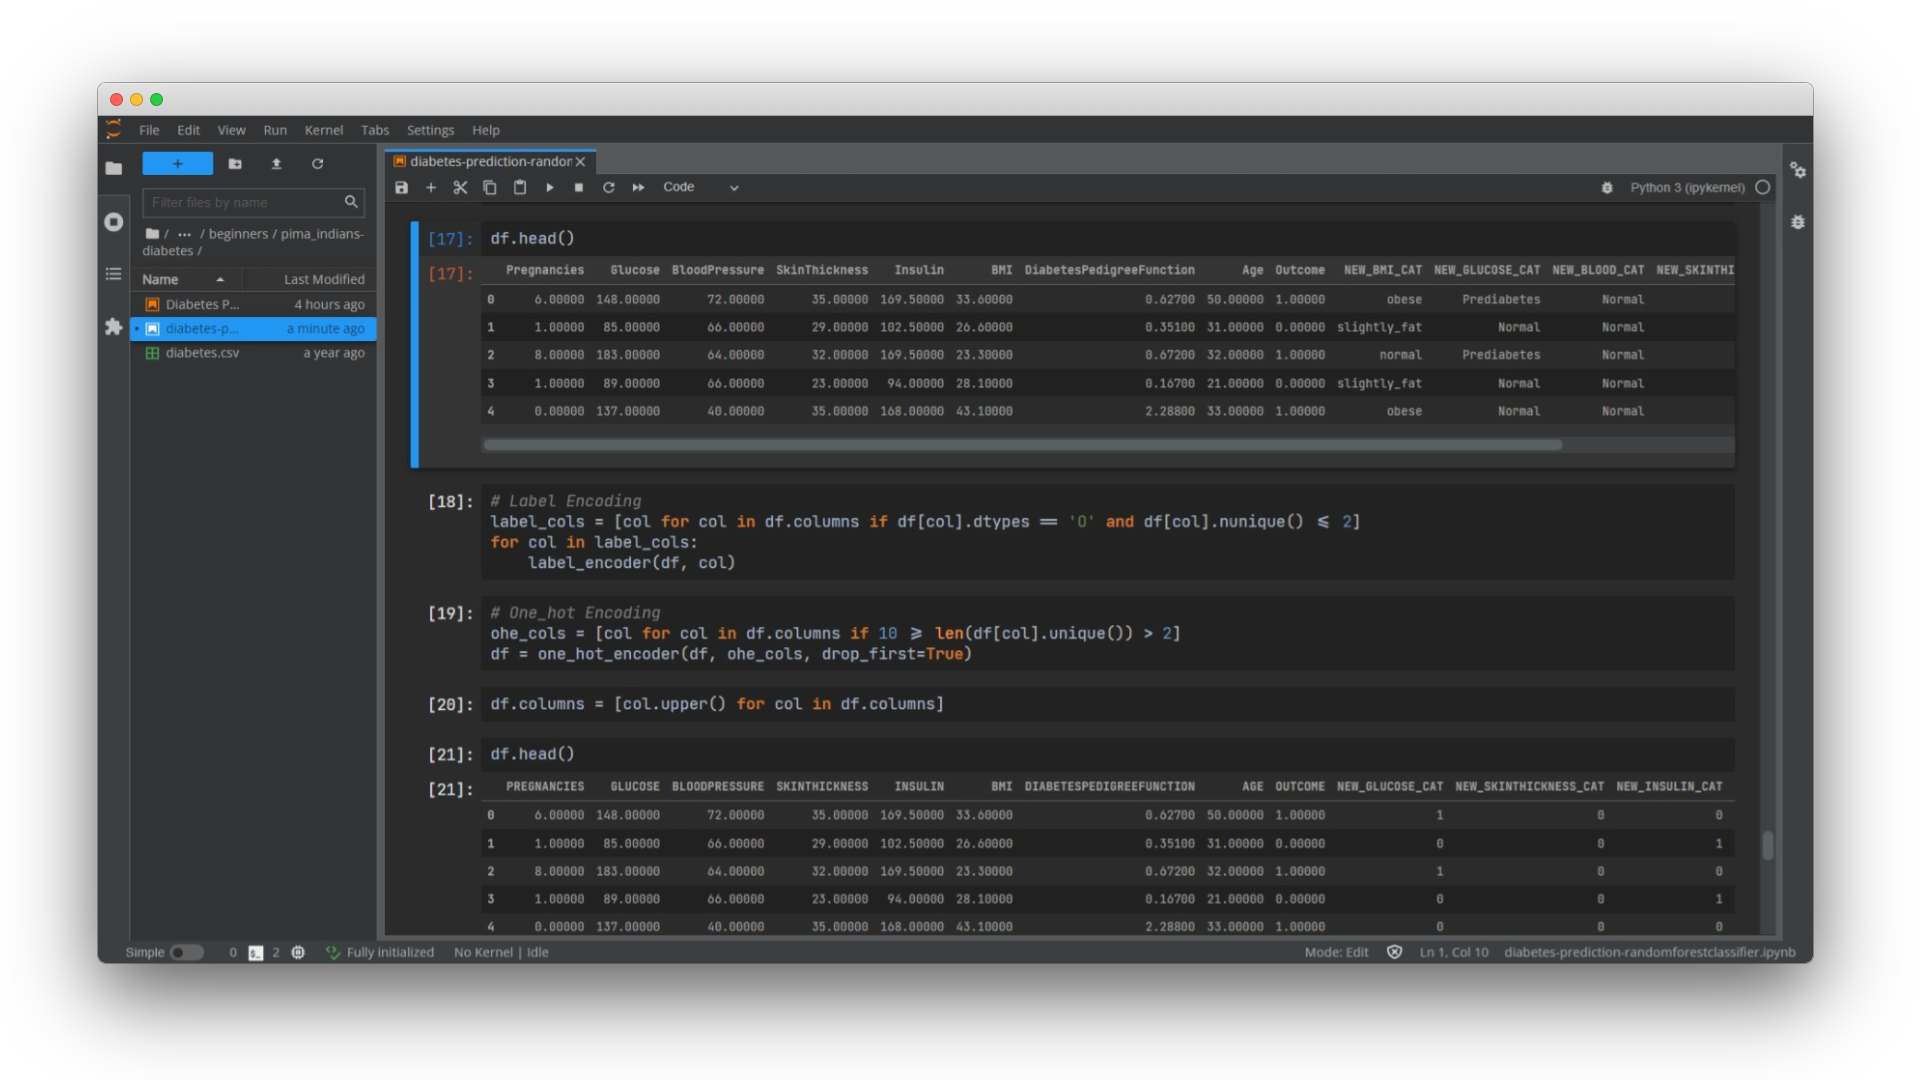
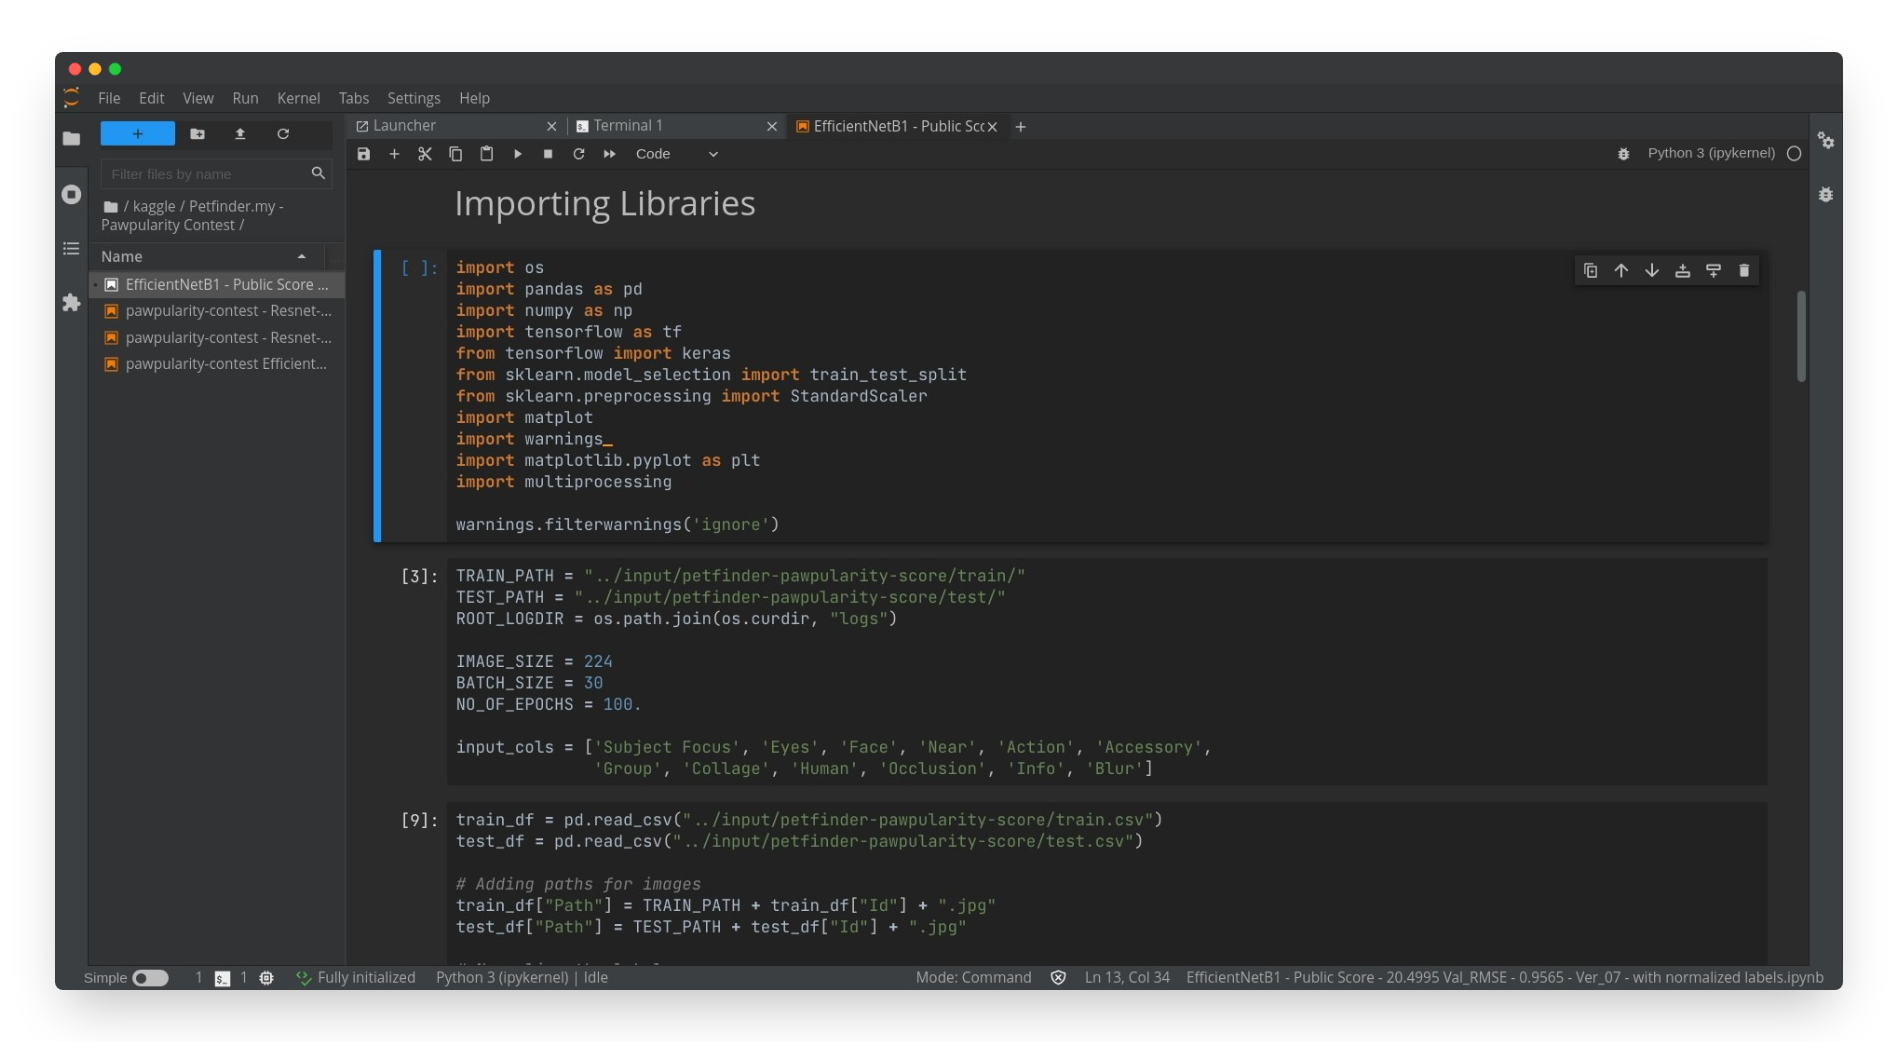
Sleeker look, less pronounced colors, less borders and new tabs

Changed region(s): [[0.0311, 0.0307, 0.9947, 0.952]]

diff --git a/style/variables.css b/style/variables.css
@@ -90,8 +90,8 @@ all of MD as it is not optimized for dense, information rich UIs.
    */
 
   --jp-border-width: 1px;
-  --jp-border-color0: var(--md-grey-700);
-  --jp-border-color1: var(--md-grey-700);
+  --jp-border-color0: var(--md-grey-900);
+  --jp-border-color1: var(--md-grey-800);
   --jp-border-color2: var(--md-grey-800);
   --jp-border-color3: var(--md-grey-900);
   --jp-border-radius: 2px;
@@ -217,7 +217,7 @@ all of MD as it is not optimized for dense, information rich UIs.
   --jp-layout-color0: #2b2b2b;
   --jp-layout-color1: #313335; /*var(--md-grey-900);*/
   --jp-layout-color2: #3c3f41; /*var(--md-grey-800);*/
-  --jp-layout-color3: #555758; /*var(--md-grey-700);*/
+  --jp-layout-color3: #3c3f41; /*var(--md-grey-700);*/
   --jp-layout-color4: #626465; /*var(--md-grey-600);*/
   --jp-layout-color5: #a9b7c6;
 
@@ -277,7 +277,7 @@ all of MD as it is not optimized for dense, information rich UIs.
   --jp-cell-collapser-not-active-hover-opacity: 0.6;
 
   --jp-cell-editor-background: var(--jp-layout-color1);
-  --jp-cell-editor-border-color: var(--md-grey-700);
+  --jp-cell-editor-border-color: transparent;
   --jp-cell-editor-box-shadow: inset 0 0 2px var(--md-blue-300);
   --jp-cell-editor-active-background: var(--jp-layout-color0);
   --jp-cell-editor-active-border-color: var(--jp-brand-color1);
@@ -335,6 +335,7 @@ all of MD as it is not optimized for dense, information rich UIs.
   --jp-toolbar-box-shadow: 0px 0px 2px 0px rgba(0, 0, 0, 0.8);
   --jp-toolbar-header-margin: 4px 4px 0px 4px;
   --jp-toolbar-active-background: var(--jp-layout-color0);
+  --jp-listitem-mod-selected: #525252;
 
   /* Statusbar specific styles */
 
@@ -458,7 +459,7 @@ all of MD as it is not optimized for dense, information rich UIs.
 
   /* scrollbar related styles. Supports every browser except Edge. */
 
-  --jp-scrollbar-background-color: #3f4244;
+  --jp-scrollbar-background-color: transparent;
   --jp-scrollbar-thumb-color: 88, 96, 97; /* need to specify thumb color as an RGB triplet */
 
   --jp-scrollbar-endpad: 3px; /* the minimum gap between the thumb and the ends of a scrollbar */

diff --git a/style/tabs.css b/style/tabs.css
@@ -1,0 +1,70 @@
+/*-----------------------------------------------------------------------------
+| Copyright (c) Max Klein.
+| Copyright (c) Anurag Dhadse.
+| Distributed under the terms of the Modified BSD License.
+|----------------------------------------------------------------------------*/
+
+.lm-DockPanel-tabBar .lm-TabBar-tab.jp-mod-current:before {
+    background: transparent;
+}
+
+.lm-DockPanel-tabBar .lm-TabBar-tab,
+.lm-TabPanel-tabBar .lm-TabBar-tab {
+    animation: append-animate 0.3s cubic-bezier(1, 0, 0, 1);
+    border: none;
+}
+
+@keyframes append-animate {
+    from {
+        transform: translateX(-5%);
+        opacity: 0;
+        box-shadow: 0 0 5px 0px rgb(0 0 0 / 40%);
+        clip-path: inset(0px -5px 0px -5px);
+    }
+
+    to {
+        transform: translateX(0%);
+        opacity: 1;
+        box-shadow: 0 0 5px 0px rgb(0 0 0 / 40%);
+        clip-path: inset(0px -5px 0px -5px);
+    }
+}
+
+.lm-DockPanel-tabBar,
+.lm-TabPanel-tabBar {
+    border-bottom: none;
+}
+
+/* Tab and tool bar under tab has same color `--jp-layout-color0` */
+.lm-DockPanel-tabBar .lm-TabBar-tab.lm-mod-current {
+    background: var(--jp-layout-color0);
+    box-shadow: 0 0 5px 0px rgb(0 0 0 / 40%);
+    clip-path: inset(0px -5px 0px -5px);
+    animation: append-animate 0.3s cubic-bezier(1, 0, 0, 1);
+}
+
+.jp-Toolbar {
+    border-bottom: transparent;
+    background: var(--jp-layout-color0);
+}
+
+.lm-TabBar .lm-TabBar-addButton {
+    background-color: var(--jp-layout-color1);
+}
+
+/* But toolbar on Launcher don't have box-shadow */
+.lm-Widget.p-Widget.jp-Toolbar.jp-Toolbar-micro {
+    box-shadow: none;
+}
+
+/* tab separator */
+.lm-DockPanel-tabBar .lm-TabBar-tab:not(.jp-mod-current):not(:hover)::after,
+.lm-TabPanel-tabBar .lm-TabBar-tab:not(.jp-mod-current):not(:hover)::after {
+    content: '';
+    height: 70%;
+    width: 1px;
+    position: absolute;
+    right: 0;
+    top: auto;
+    background-color: var(--md-grey-600);
+}

diff --git a/style/base.css b/style/base.css
@@ -1,3 +1,15 @@
+body {
+  background: var(--jp-layout-color1);
+}
+
+#jp-main-dock-panel {
+  padding: 0;
+}
+
+#jp-left-stack {
+  border-bottom: var(--jp-border-width) solid var(--jp-border-color0);
+}
+
 .jp-InputArea-editor {
   border: none;
   border-radius: 2px;
@@ -54,6 +66,11 @@
   padding: 0.3rem 0;
 }
 
+.jp-Completer-item.jp-mod-active {
+  background: var(--md-blue-500);
+  color: white;
+}
+
 .jp-mod-active .jp-Completer-typeExtended {
   color: inherit;
 }
@@ -70,3 +87,47 @@
   margin-top: 0;
 }
 
+.jp-DirListing-headerItem {
+  background-color: var(--jp-layout-color1) !important;
+}
+
+.jp-DirListing-item {
+  cursor: pointer;
+}
+
+.jp-PluginList {
+  background-color: var(--jp-layout-color1);
+  padding-right: 0;
+}
+
+.jp-DirListing-item.jp-mod-selected {
+  box-shadow: none;
+  background: var(--jp-listitem-mod-selected);
+  color: var(--jp-ui-font-color0);
+  border-radius: 0;
+}
+
+.jp-PluginList-entry.jp-mod-selected {
+  box-shadow: none!important;
+  background-color: var(--jp-listitem-mod-selected);
+  color: var(--jp-ui-font-color0);
+  border-radius: 0;
+}
+
+.jp-PluginList .jp-mod-selected .jp-SelectedIndicator {
+  visibility: hidden;
+}
+
+/* Inner editor panel should not have left, right and bottom border */
+.lm-DockPanel-widget,
+.lm-TabPanel-stackedPanel {
+    background: var(--jp-layout-color0);
+    border-right: none !important;
+    border-left: none !important;
+    border-bottom: var(--jp-border-width) solid var(--jp-border-color0);
+}
+
+/* switch color for simple layout */
+.jp-switch-track {
+  background-color: var(--md-grey-400);
+}

diff --git a/style/index.css b/style/index.css
@@ -7,6 +7,7 @@
 @import "./codemirror-darcula.css";
 @import "./variables.css";
 @import "./base.css";
+@import "./tabs.css";
 
 /* Set the default typography for monospace elements */
 tt,

diff --git a/setup.py b/setup.py
@@ -2,31 +2,34 @@
 theme-material-darcula setup
 """
 import json
-import os
+from pathlib import Path
 # import conda_build.bdist_conda
 
 
 from jupyter_packaging import (
-    create_cmdclass, install_npm, ensure_targets,
+    create_cmdclass, 
+    install_npm, 
+    ensure_targets,
     combine_commands,
+    skip_if_exists
 )
 import setuptools
 
-HERE = os.path.abspath(os.path.dirname(__file__))
+HERE = Path(__file__).parent.resolve()
 
 # The name of the project
 name = "theme-material-darcula"
 
 # Get our version
-with open(os.path.join(HERE, 'package.json')) as f:
+with (HERE / "package.json").open() as f:
     version = json.load(f)['version']
 
-lab_path = os.path.join(HERE, name, "labextension")
+lab_path = HERE / name / "labextension"
 
 # Representative files that should exist after a successful build
 jstargets = [
-    os.path.join(HERE, "lib", "index.js"),
-    os.path.join(lab_path, "package.json"),
+    str(HERE / "lib" / "index.js"),
+    str(lab_path / "package.json"),
 ]
 
 package_data_spec = {
@@ -38,8 +41,8 @@ package_data_spec = {
 labext_name = "@adhadse/theme-material-darcula"
 
 data_files_spec = [
-    ("share/jupyter/labextensions/%s" % labext_name, lab_path, "**"),
-    ("share/jupyter/labextensions/%s" % labext_name, HERE, "install.json"),
+    ("share/jupyter/labextensions/%s" % labext_name, str(lab_path), "**"),
+    ("share/jupyter/labextensions/%s" % labext_name, str(HERE), "install.json"),
 ]
 
 cmdclass = create_cmdclass(
@@ -48,10 +51,16 @@ cmdclass = create_cmdclass(
     data_files_spec=data_files_spec
 )
 
-cmdclass["jsdeps"] = combine_commands(
+js_command = combine_commands(
     install_npm(HERE, build_cmd="build:prod", npm=["jlpm"]),
     ensure_targets(jstargets),
 )
+
+is_repo = (HERE / ".git").exists()
+if is_repo:
+    cmdclass["jsdeps"] = js_command
+else:
+    cmdclass["jsdeps"] = skip_if_exists(jstargets, js_command)
 
 with open("README.md", "r") as fh:
     long_description = fh.read()
@@ -65,12 +74,12 @@ setup_args = dict(
     long_description=long_description,
     long_description_content_type="text/markdown",
     cmdclass=cmdclass,
+    zip_safe=False,
     # distclass=conda_build.bdist_conda.CondaDistribution,
     packages=setuptools.find_packages(),
     install_requires=[
         "jupyterlab>=3.0.0rc13,==3.*",
     ],
-    zip_safe=False,
     include_package_data=True,
     python_requires=">=3.6",
     license="BSD-3-Clause",
@@ -83,6 +92,7 @@ setup_args = dict(
         "Programming Language :: Python :: 3.6",
         "Programming Language :: Python :: 3.7",
         "Programming Language :: Python :: 3.8",
+        "Programming Language :: Python :: 3.9"
         "Framework :: Jupyter",
     ],
 )

diff --git a/README.md b/README.md
@@ -8,8 +8,6 @@ A fork of [telamonian/theme-darcula](https://github.com/telamonian/theme-darcula
 Darcula theme for Jupyterlab with Material design. Modelled after the classic Intellij theme. Now with support for all JupyterLab 2.x and 3.x versions!
 
 ![darcula_preview](darcula_preview.png)
-![](2.png)
-![](3.png)
 
 ## Prerequisites
 
@@ -60,6 +58,12 @@ jlpm install
 jlpm build:prod
 jlpm install:extension
 jupyter lab build
+```
+
+To build conda package use:
+
+```bash
+conda build .
 ```
 
 ## History
